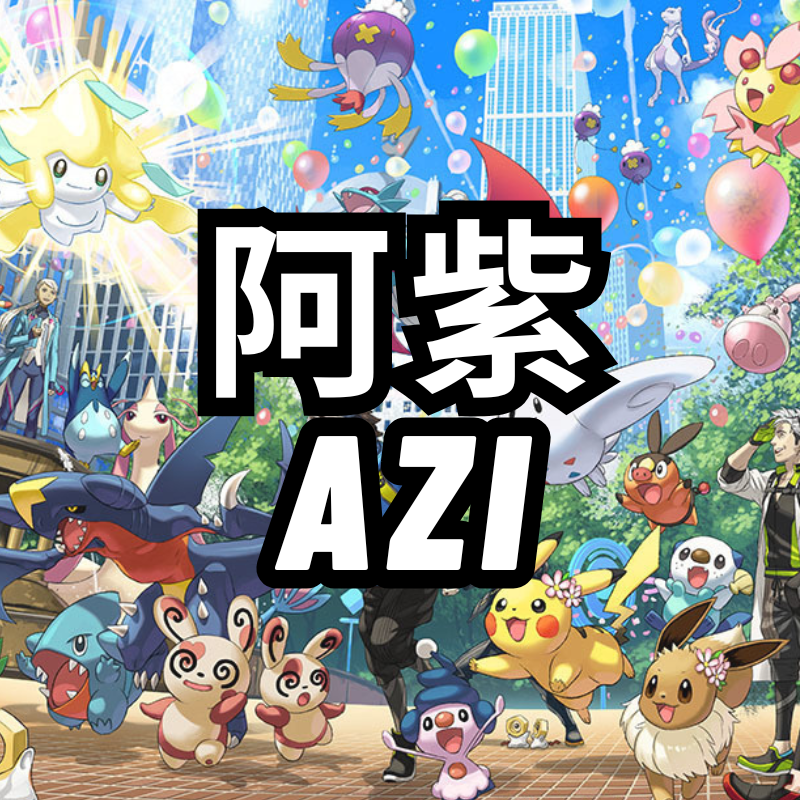
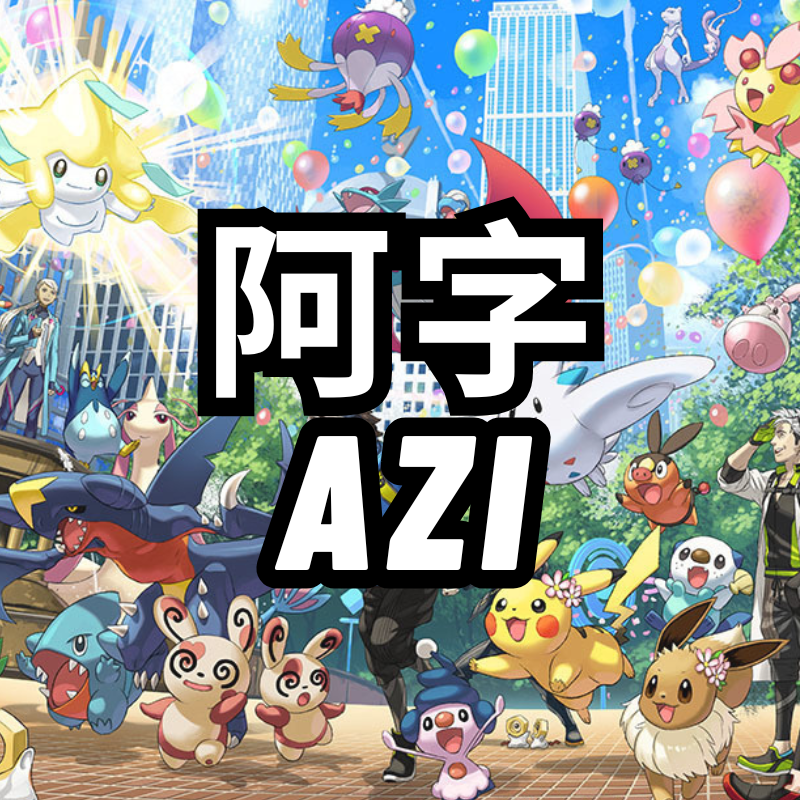
Add files via upload

Changed region(s): [[0.4688, 0.25, 0.7812, 0.5312]]

diff --git a/index.html b/index.html
@@ -3,7 +3,7 @@
 <head>
   <meta charset="UTF-8">
   <meta name="viewport" content="width=device-width, initial-scale=1.0">
-  <title>阿紫 Azi 官方網站</title>
+  <title>阿字Azi 官方網站</title>
   <link href="https://fonts.googleapis.com/css2?family=Noto+Sans+TC&display=swap" rel="stylesheet">
   <style>
     body {
@@ -115,10 +115,10 @@
   </div>
 
   <header>
-    <h1><span class="lang zh-Hant show">🎮 阿紫 Azi 頻道總覽</span><span class="lang en">🎮 Azi Channel Overview</span></h1>
+    <h1><span class="lang zh-Hant show">🎮 阿字Azi 頻道總覽</span><span class="lang en">🎮 Azi Channel Overview</span></h1>
     <p><span class="lang zh-Hant show">這是一個Pokemon的探索台，也會探索其他的遊戲。偶爾開台玩玩不同的或喜歡的遊戲</span><span class="lang en">This is a Pokémon exploration channel, also exploring other games. Occasional livestreams with favorite titles!</span></p>
     <a class="cta" href="https://www.youtube.com/@pokemonAzi" target="_blank">
-      <span class="lang zh-Hant show">🔴 立即訂閱 阿紫 Azi</span>
+      <span class="lang zh-Hant show">🔴 立即訂閱 阿字Azi</span>
       <span class="lang en">🔴 Subscribe to Azi Now</span>
     </a>
   </header>
@@ -151,7 +151,7 @@
   </main>
 
   <footer>
-    <p><span class="lang zh-Hant show">© 2025 阿紫 Azi 頻道｜設計 · 部署</span><span class="lang en">© 2025 Azi Channel | Crafted with care & design</span></p>
+    <p><span class="lang zh-Hant show">© 2025 阿字Azi 頻道｜設計 · 部署</span><span class="lang en">© 2025 Azi Channel | Crafted with care & design</span></p>
   </footer>
 
   <script>
